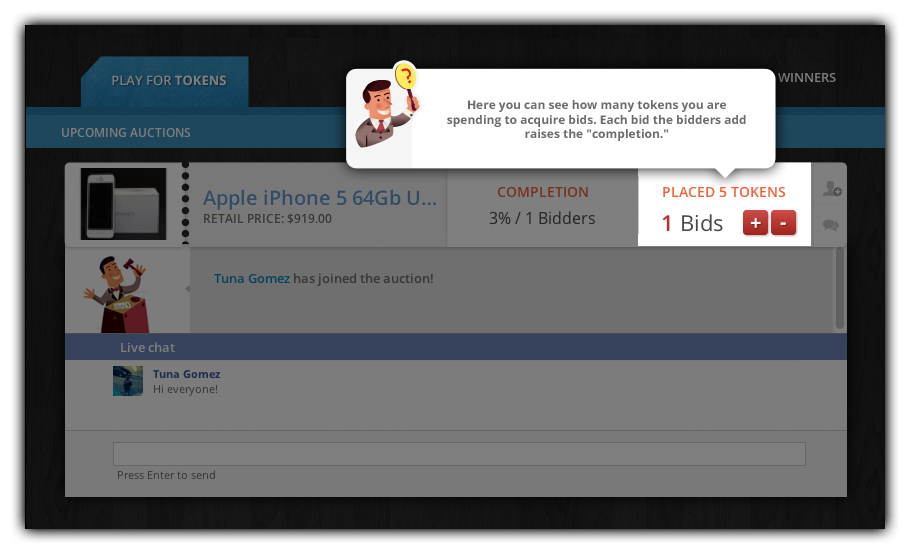
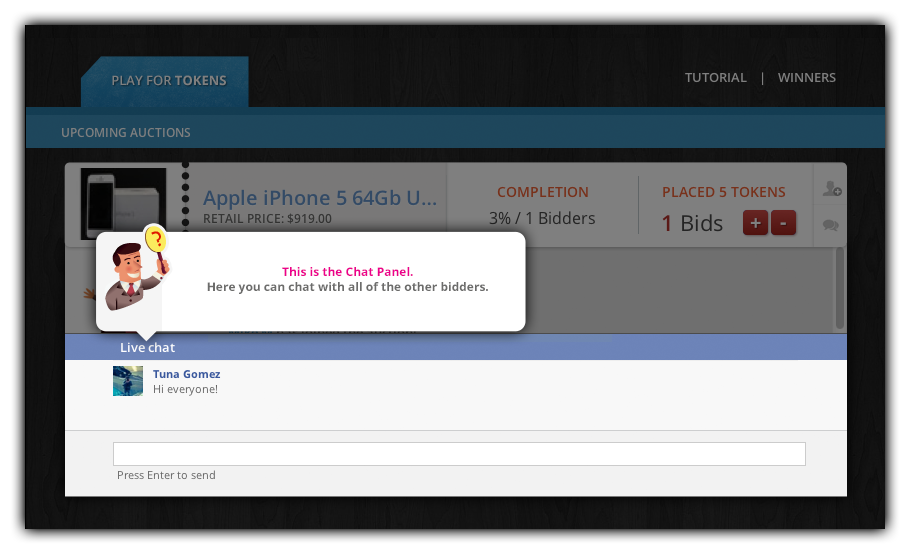
ibidgames: new tutorial slides, updated welcome text.

diff --git a/static/js/tutorial.js b/static/js/tutorial.js
@@ -33,7 +33,10 @@ tutorialImages = {
     slide6: '/static/images/tutorial/6.png',
     slide7: '/static/images/tutorial/7.png',
     slide8: '/static/images/tutorial/8.png',
-    slide9: '/static/images/tutorial/9.png'
+    slide9: '/static/images/tutorial/9.png',
+    slide10: '/static/images/tutorial/10.png',
+    slide11: '/static/images/tutorial/11.png',
+    slide12: '/static/images/tutorial/12.png'
     }
 
 preloadImage(tutorialImages.slide1);
@@ -45,6 +48,9 @@ preloadImage(tutorialImages.slide6);
 preloadImage(tutorialImages.slide7);
 preloadImage(tutorialImages.slide8);
 preloadImage(tutorialImages.slide9);
+preloadImage(tutorialImages.slide10);
+preloadImage(tutorialImages.slide11);
+preloadImage(tutorialImages.slide12);
 
 
 var tutorialActive = false;
@@ -61,7 +67,10 @@ function initTutorial(){
     jQuery('#tutorial-dialog').bind('tutorialEvent5', function(e){displayTutorial(    {img:tutorialImages.slide6,  prevEvent:'tutorialEvent4',  nextEvent:'tutorialEvent6'});});
     jQuery('#tutorial-dialog').bind('tutorialEvent6', function(e){displayTutorial(    {img:tutorialImages.slide7,  prevEvent:'tutorialEvent5',  nextEvent:'tutorialEvent7'});});
     jQuery('#tutorial-dialog').bind('tutorialEvent7', function(e){displayTutorial(    {img:tutorialImages.slide8,  prevEvent:'tutorialEvent6',  nextEvent:'tutorialEvent8'});});
-    jQuery('#tutorial-dialog').bind('tutorialEvent8', function(e){displayTutorial(    {img:tutorialImages.slide9,  prevEvent:'tutorialEvent7',  nextEvent:'tutorialEventFinish'});});
+    jQuery('#tutorial-dialog').bind('tutorialEvent8', function(e){displayTutorial(    {img:tutorialImages.slide9,  prevEvent:'tutorialEvent7',  nextEvent:'tutorialEvent9'});});
+    jQuery('#tutorial-dialog').bind('tutorialEvent9', function(e){displayTutorial(    {img:tutorialImages.slide10,  prevEvent:'tutorialEvent8',  nextEvent:'tutorialEvent10'});});
+    jQuery('#tutorial-dialog').bind('tutorialEvent10', function(e){displayTutorial(    {img:tutorialImages.slide11,  prevEvent:'tutorialEvent9',  nextEvent:'tutorialEvent11'});});
+    jQuery('#tutorial-dialog').bind('tutorialEvent11', function(e){displayTutorial(    {img:tutorialImages.slide12,  prevEvent:'tutorialEvent10',  nextEvent:'tutorialEventFinish'});});
     jQuery('#tutorial-dialog').bind('tutorialEventFinish', hideTutorial);
 
     jQuery('#tutorial-dialog').trigger('tutorialEventStart');

diff --git a/templates/bidding/mainpage.html b/templates/bidding/mainpage.html
@@ -573,18 +573,19 @@ preloadImage("{% static "images/help-img.png" %}");
 		<div id="welcome" style="display:none;">
 			<div class="text">
 				<p>
-					Welcome {{ member.user.first_name }}.</br> I'm Kenny, your interactive auctioneer.
+					Hi {{ member.user.first_name }}.</br> I'm Kenny, your interactive auctioneer.
 				</p></br>
 				<!--span>I think you are here because you want to buy items at <strong>90%</strong> off the retail cost.</br> I'll be leading all auctions and giving you tips on how to </br> play the interactive auction ™ game and win.
 				<br/>
 				</br></br> Are you ready?</br><strong> Let's get started with the Interactive Tutorial.</strong></span-->
-				<span>I think you are here because you want to have fun playing on auctions for virtual goods! I'll be leading all auctions and giving you tips on how to </br> play the interactive auction ™ game and win.
-					<br/>
-					</br></br> Are you ready?</br><strong> Let's get started with the Interactive Tutorial.</strong></span>
+				<span>Welcome to iBidGames!  I will be leading all auctions and giving you tips on how to<br/>
+play and win Facebook’s first interactive auction ™ game.
+                    <br/>Are you ready?
+</span>
 			</div>
 			<a href="#">
 			<div class="btn-welcome">
-				I'm ready
+				Let's get started with the Tutorial
 			</div> </a>
 		</div>
 		<!--welcome popup-->
